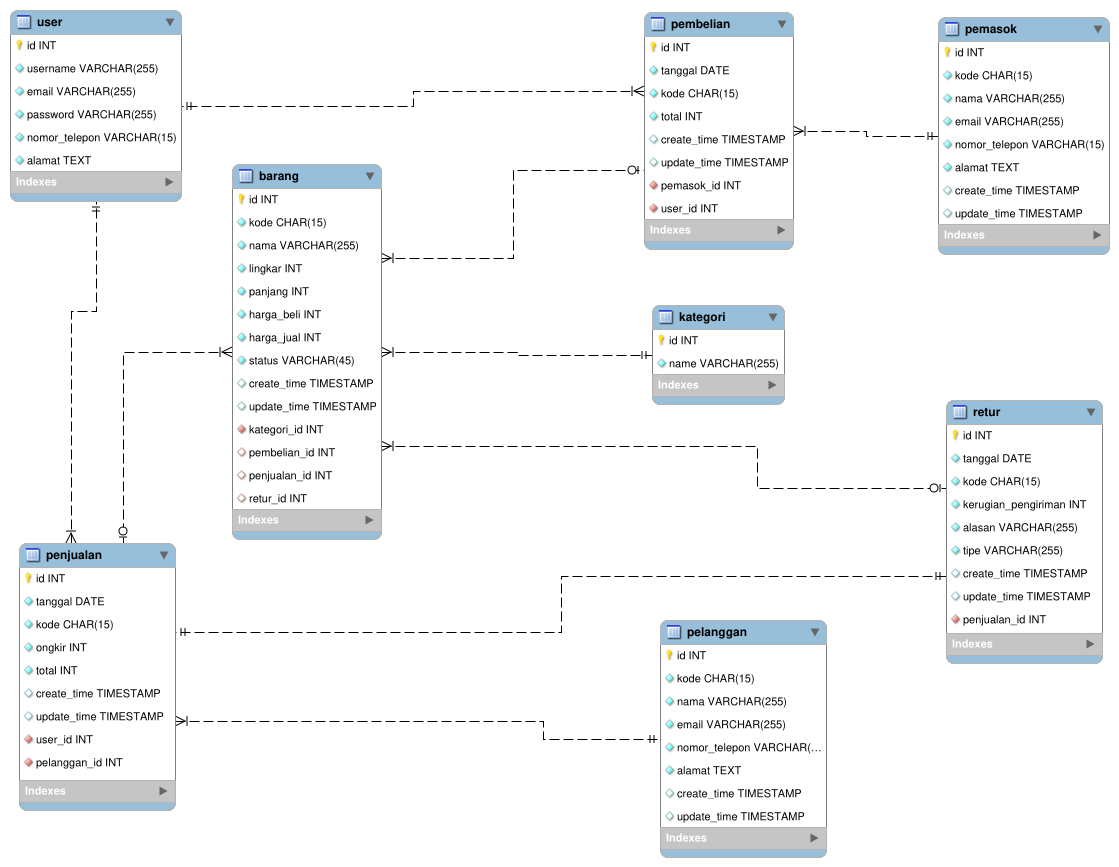
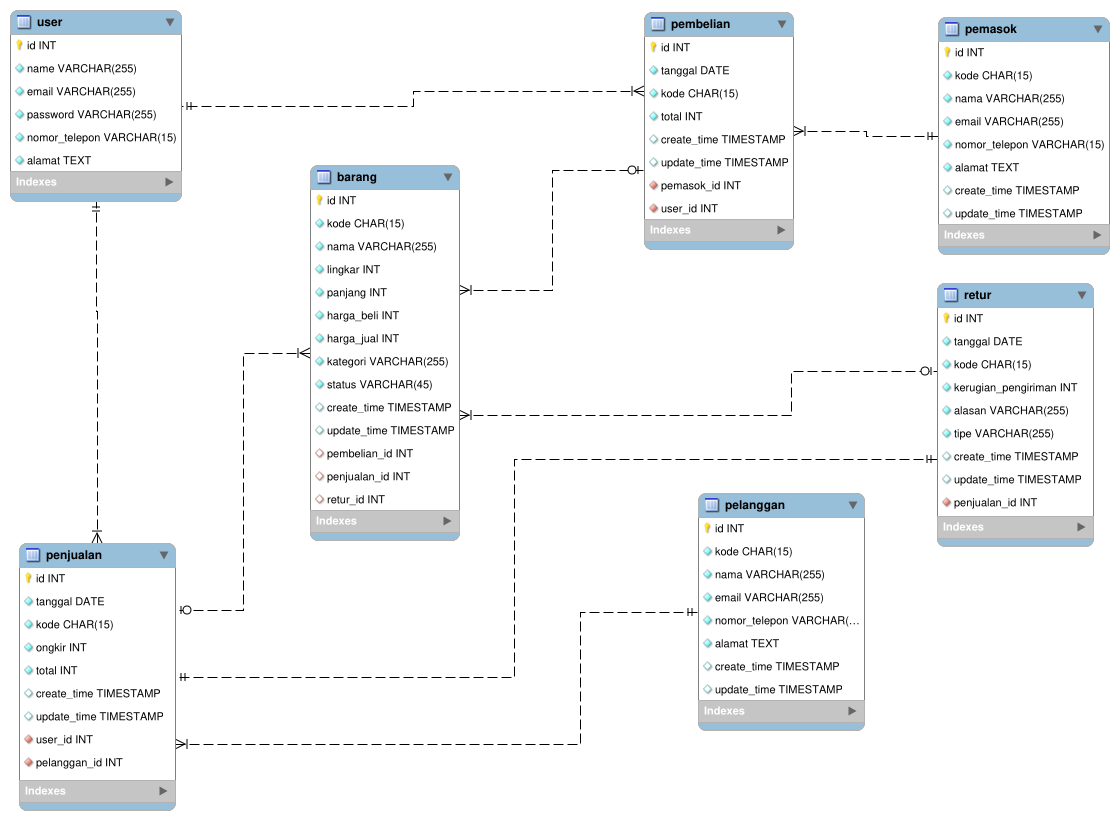
Menghapus entitas kategori dan menjadikannya atribut pada tabel barang

diff --git a/database/migrations/2026_09_20_000008_create_barang_table.php b/database/migrations/2026_09_20_000008_create_barang_table.php
@@ -19,10 +19,10 @@ return new class extends Migration
             $table->integer('panjang')->nullable();
             $table->integer('harga_beli');
             $table->integer('harga_jual');
+            $table->string('kategori');
             $table->string('status');
             $table->timestamps();
 
-            $table->foreignId('kategori_id')->constrained('kategori');
             $table->foreignId('pembelian_id')->nullable()->constrained('pembelian');
             $table->foreignId('penjualan_id')->nullable()->constrained('penjualan');
             $table->foreignId('retur_id')->nullable()->constrained('retur');
